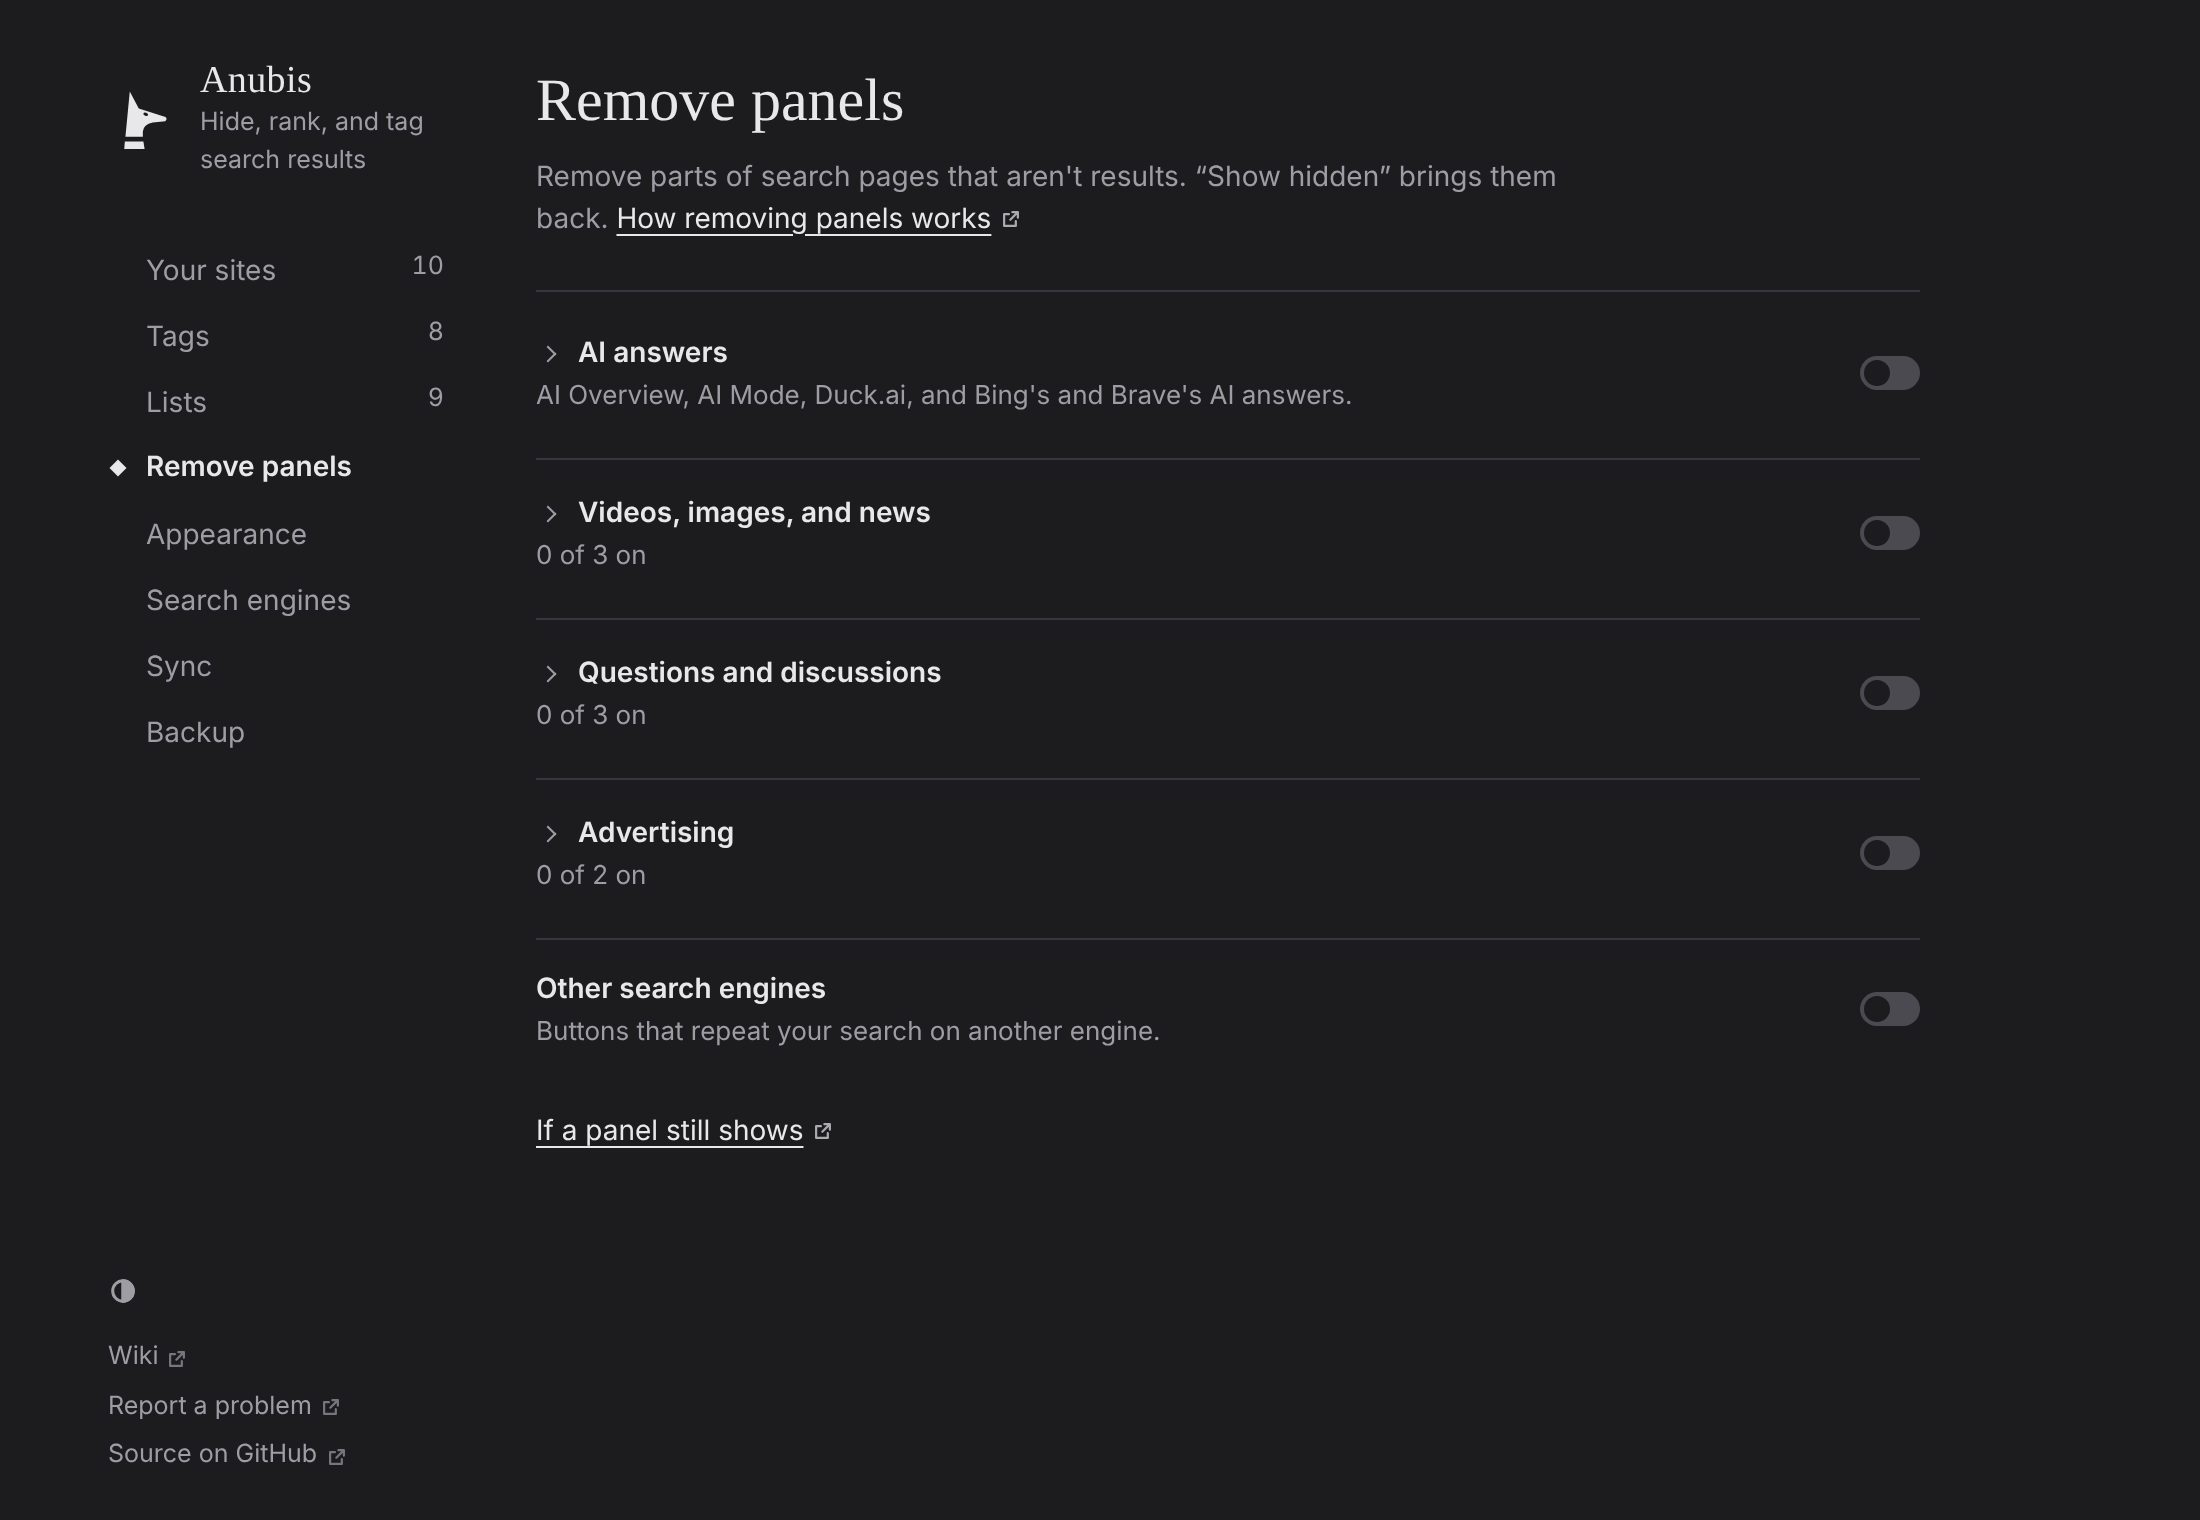
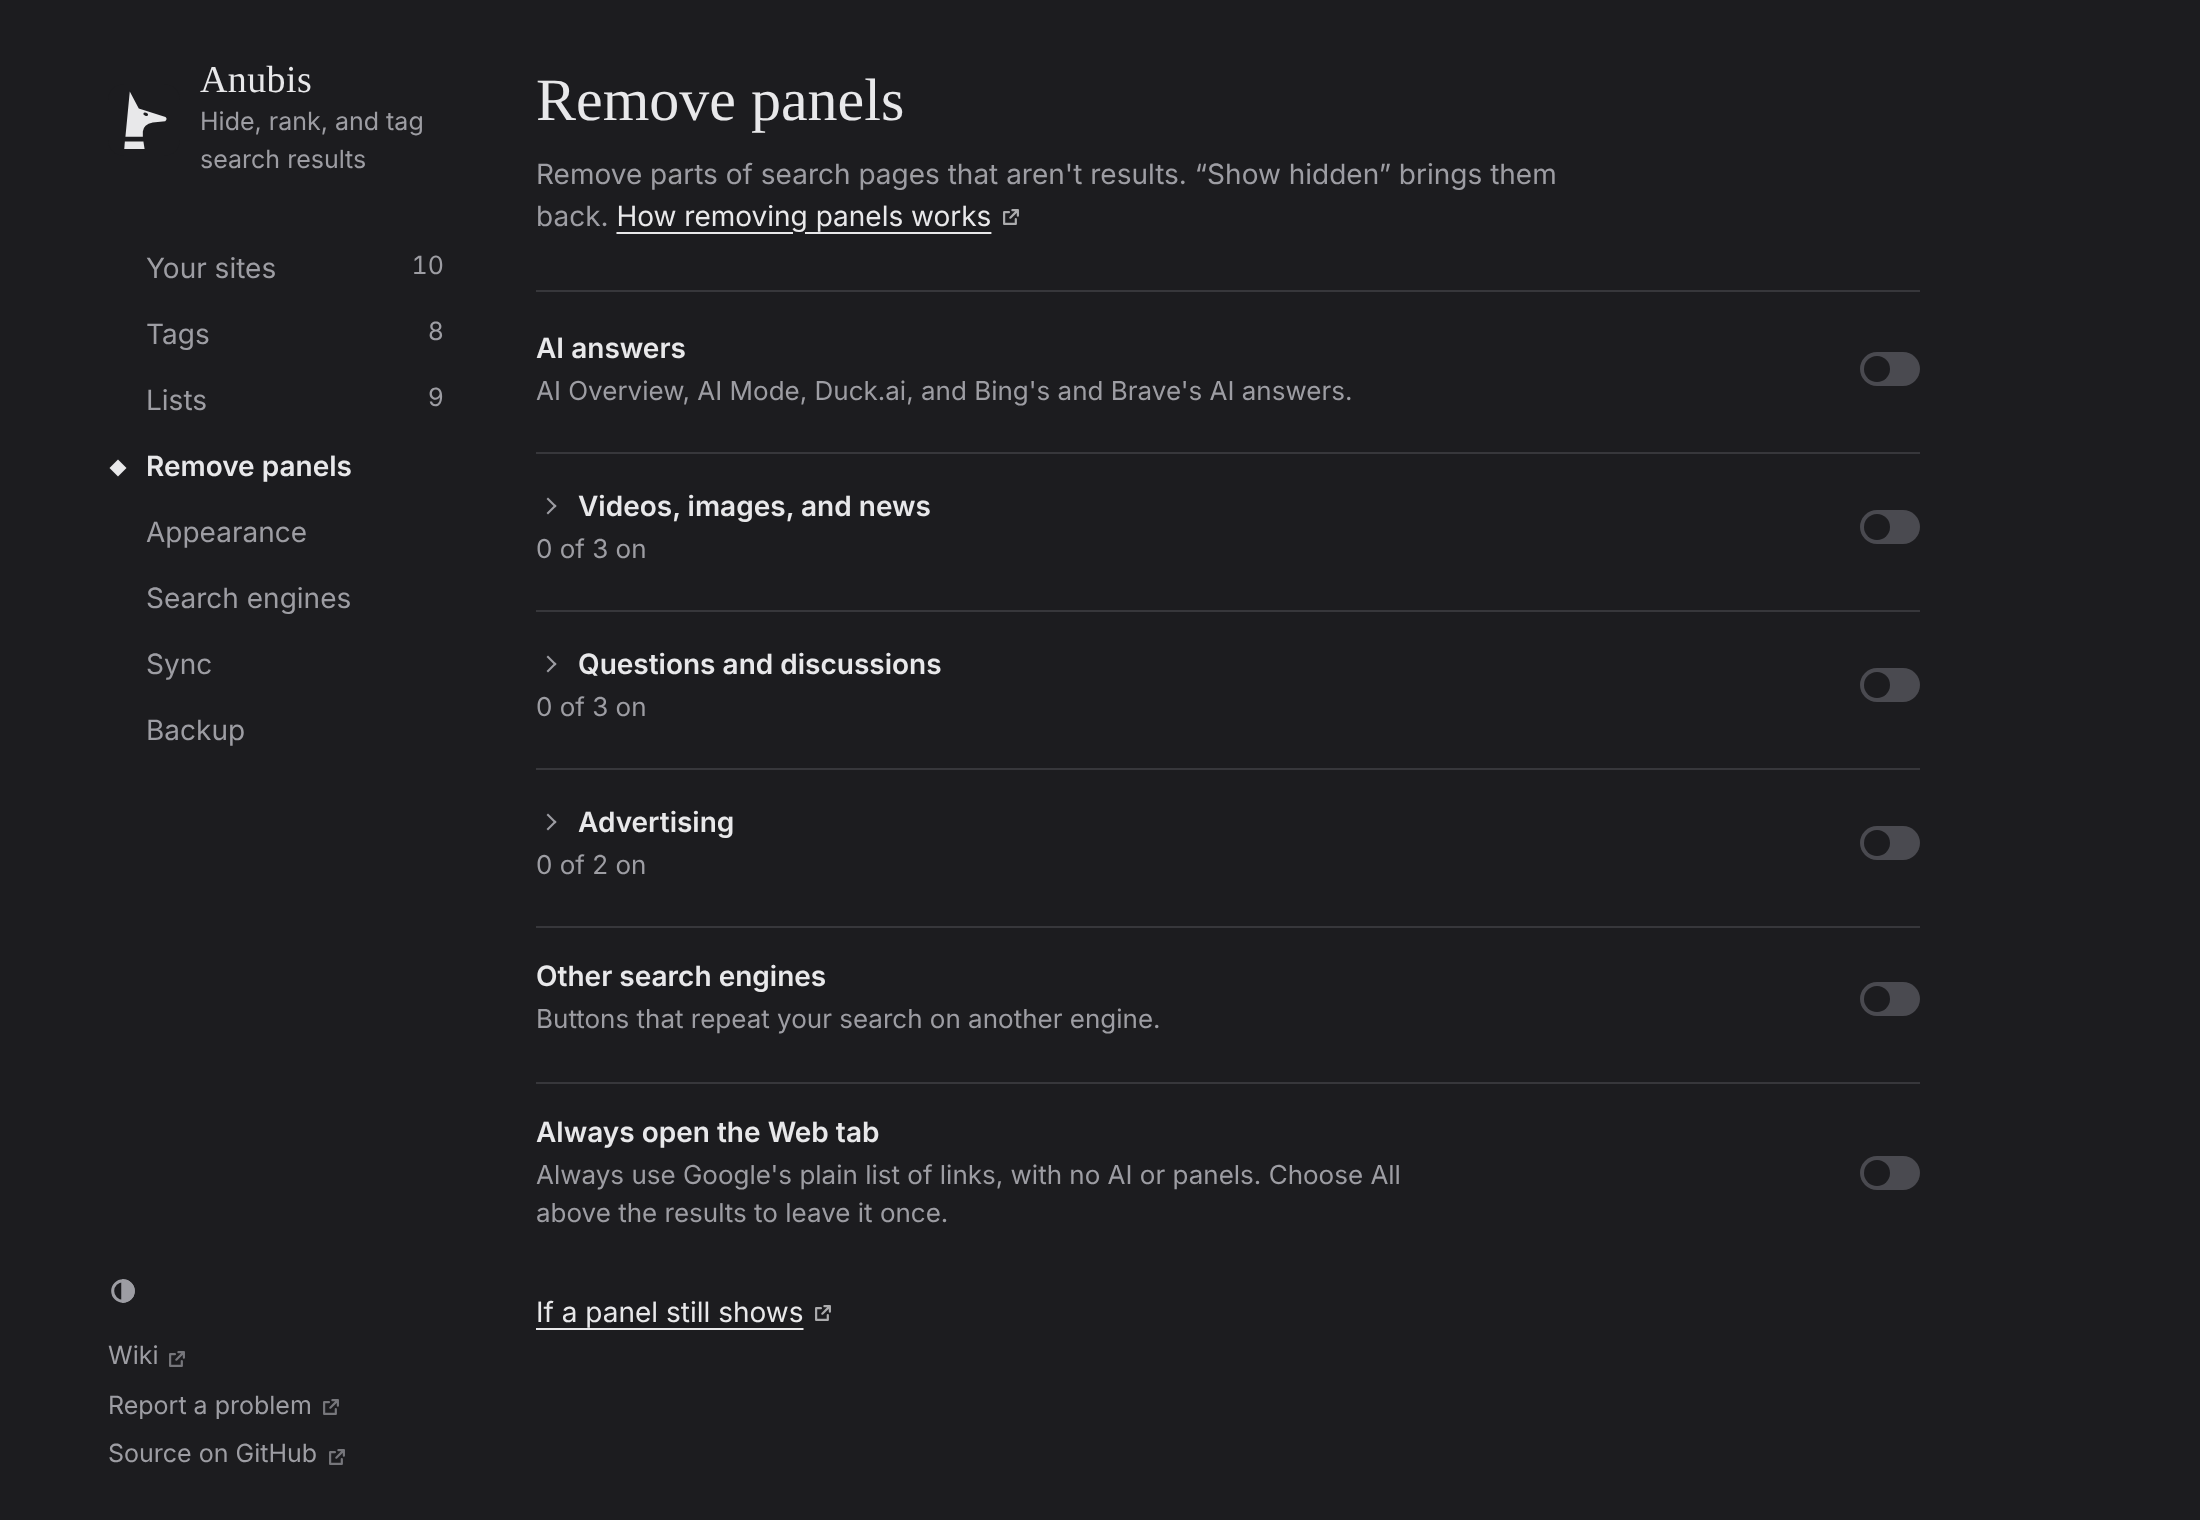
Give Google's Web tab its own switch in Remove panels

diff --git a/entrypoints/options/cleanup.ts b/entrypoints/options/cleanup.ts
@@ -6,24 +6,26 @@ import { helpLink, pageTitle, switchRow } from './parts';
 
 // "Remove panels": parts of search pages that aren't results (AI answers, video
 // panels, "People also ask"), removed on every search. The switches come in a
-// few groups, each led by a switch for the whole group, with its parts indented
-// under it, so the page reads as five choices rather than eleven.
+// few groups, each led by a switch for the whole group, with its parts folded
+// under it, so the page reads as six choices rather than eleven. Google's Web tab
+// isn't a panel, and no group's switch turns it on, so it stands on its own, last.
 
 /** One switch: a clean-up kind, or Google's Web tab, which is its own setting. */
 type Item = CleanupKind | 'webTab';
 
 interface Group {
-  /** The group's name; a group of one is just that switch, with any extras under it. */
+  /** The group's name, over its parts; without one, a group is a single switch. */
   label?: MessageKey;
   items: Item[];
 }
 
 const GROUPS: Group[] = [
-  { items: ['ai', 'webTab'] },
+  { items: ['ai'] },
   { label: 'cleanupGroupMedia', items: ['videos', 'images', 'news'] },
   { label: 'cleanupGroupQuestions', items: ['questions', 'discussions', 'related'] },
   { label: 'cleanupGroupAds', items: ['ads', 'adRequests'] },
   { items: ['elsewhere'] },
+  { items: ['webTab'] },
 ];
 
 /** Groups whose parts are showing, kept while the page is open: it renders again after each change. */
@@ -43,14 +45,13 @@ export async function renderCleanup(): Promise<HTMLElement> {
 
   const group = ({ label: name, items }: Group): HTMLElement => {
     // A named group's lead switch turns all of its parts on or off, and shows
-    // half-way while only some are on. An unnamed group leads with its first switch,
-    // and the rest are extras that only make sense under it (Google's Web tab under AI answers).
-    const children = name ? items : items.slice(1);
+    // half-way while only some are on. An unnamed group is one switch.
+    const children = name ? items : [];
     const rows = children.map((item) => {
-      // Inside a named group the parts' names say enough; Google's Web tab needs its note.
-      const row = switchRow(t(label(item)), name ? '' : t(hint(item)), isOn(item), (on) => {
+      // Inside a group the parts' names say enough.
+      const row = switchRow(t(label(item)), '', isOn(item), (on) => {
         save({ [item]: on });
-        if (name) sync();
+        sync();
       });
       row.classList.add('child');
       return row;
@@ -71,10 +72,10 @@ export async function renderCleanup(): Promise<HTMLElement> {
     }
     if (name) sync();
     lead.classList.add('lead');
-    if (!rows.length) return h('div', { class: 'setting-group' }, lead);
+    if (!name) return h('div', { class: 'setting-group' }, lead);
 
-    // The parts fold under the group's name, so the page reads as five choices.
-    const key = name ?? items[0]!;
+    // The parts fold under the group's name, so the page reads as six choices.
+    const key = name;
     const parts = h('div', { class: 'setting-parts', id: `parts-${key}`, hidden: !expanded.has(key) }, rows);
     const title = lead.querySelector('b')!;
     const disclose = h(
@@ -90,13 +91,11 @@ export async function renderCleanup(): Promise<HTMLElement> {
     });
     title.replaceWith(disclose);
     // How many parts are on, said beside the name while they're folded away.
-    if (name) {
-      const count = h('span', { class: 'parts-on' });
-      const say = () => (count.textContent = t('cleanupPartsOn', String(inputs.filter((i) => i.checked).length), String(inputs.length)));
-      say();
-      for (const input of [...inputs, leadInput]) input.addEventListener('change', say);
-      disclose.after(count);
-    }
+    const count = h('span', { class: 'parts-on' });
+    const say = () => (count.textContent = t('cleanupPartsOn', String(inputs.filter((i) => i.checked).length), String(inputs.length)));
+    say();
+    for (const input of [...inputs, leadInput]) input.addEventListener('change', say);
+    disclose.after(count);
     return h('div', { class: 'setting-group' }, lead, parts);
   };
 

diff --git a/docs/experiments/design.md b/docs/experiments/design.md
@@ -6,6 +6,8 @@ The look, the wording, and Anubis's own pages. Part of [Experiments and decision
 
 Asked for, after the first pass below. Your lists folding by itself past five was unwanted: all of Lists' sections start open again, and fold only when someone folds them. "Remove panels the sections" had meant the Remove panels page: its groups now fold their parts under the group's name, which says how many are on, so the page reads as five rows. A list's buttons were a bordered Suggest changes beside a switch and two icons, centred in the row; Suggest changes and Homepage are now small text buttons under the description, and the switch and icons sit level with the name. Lists and tags only came in one order (subscription order, and by name), so each row has a handle to drag, or to focus and move with the arrow keys. Tag order is stored as `order` in `sync:tagPrefs`, so backups and sync carry it with no new key, and `collectTags` sorts by it, which the popup and the result menu follow. Hidden results became a drop-down and tag colours a switch: a row of three bare words read as text, not as a choice. Tags got column names for the drop-down and the switch, which had none, and a tag's "From" line names only lists the sentence above it doesn't. Backup comes first on its page, as the sidebar names it. The colour scheme button had no place on phones, where the sidebar's foot is hidden; it now ends the row of sections there.
 
+Google's **Always open the Web tab** then sat folded under AI answers, whose switch didn't turn it on, which read as a bug. It isn't a panel, so it's now a switch of its own, last on the page.
+
 **Rejected:** native HTML drag and drop, which doesn't work on touch screens; pointer events do both. A sort menu (by name, by sites), which orders but doesn't let someone put a tag first.
 
 ## Less crowded settings (2026-10-21)
